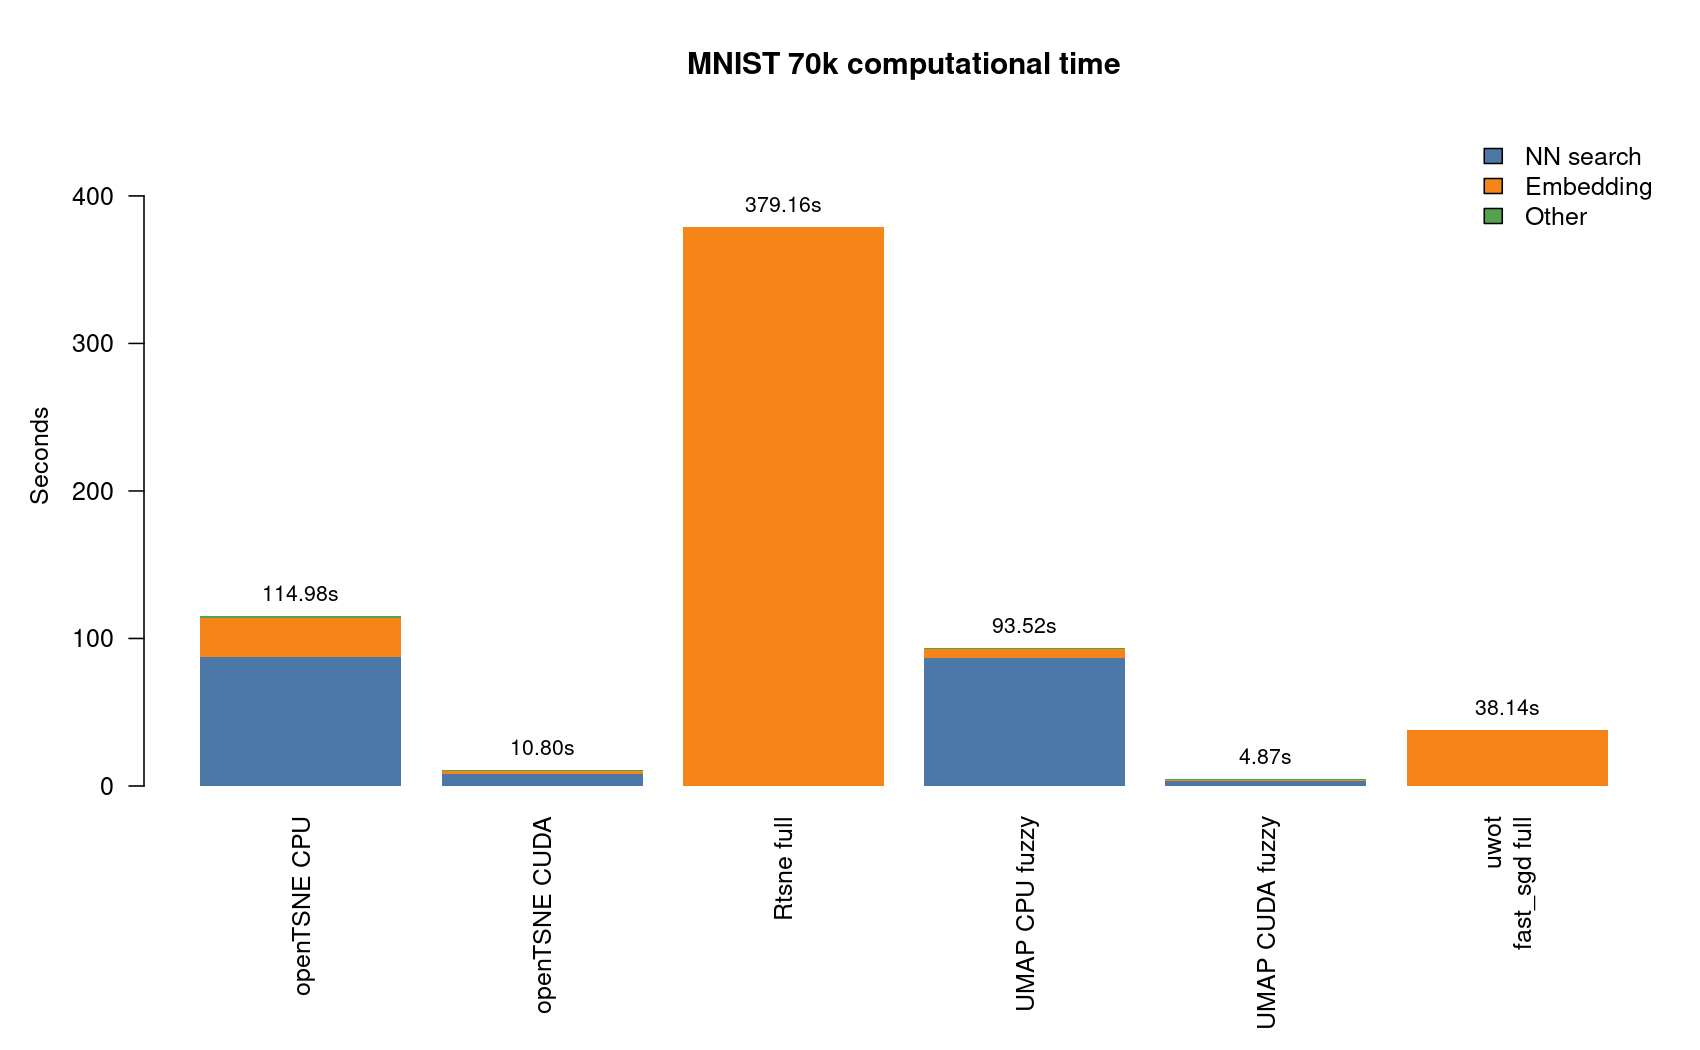
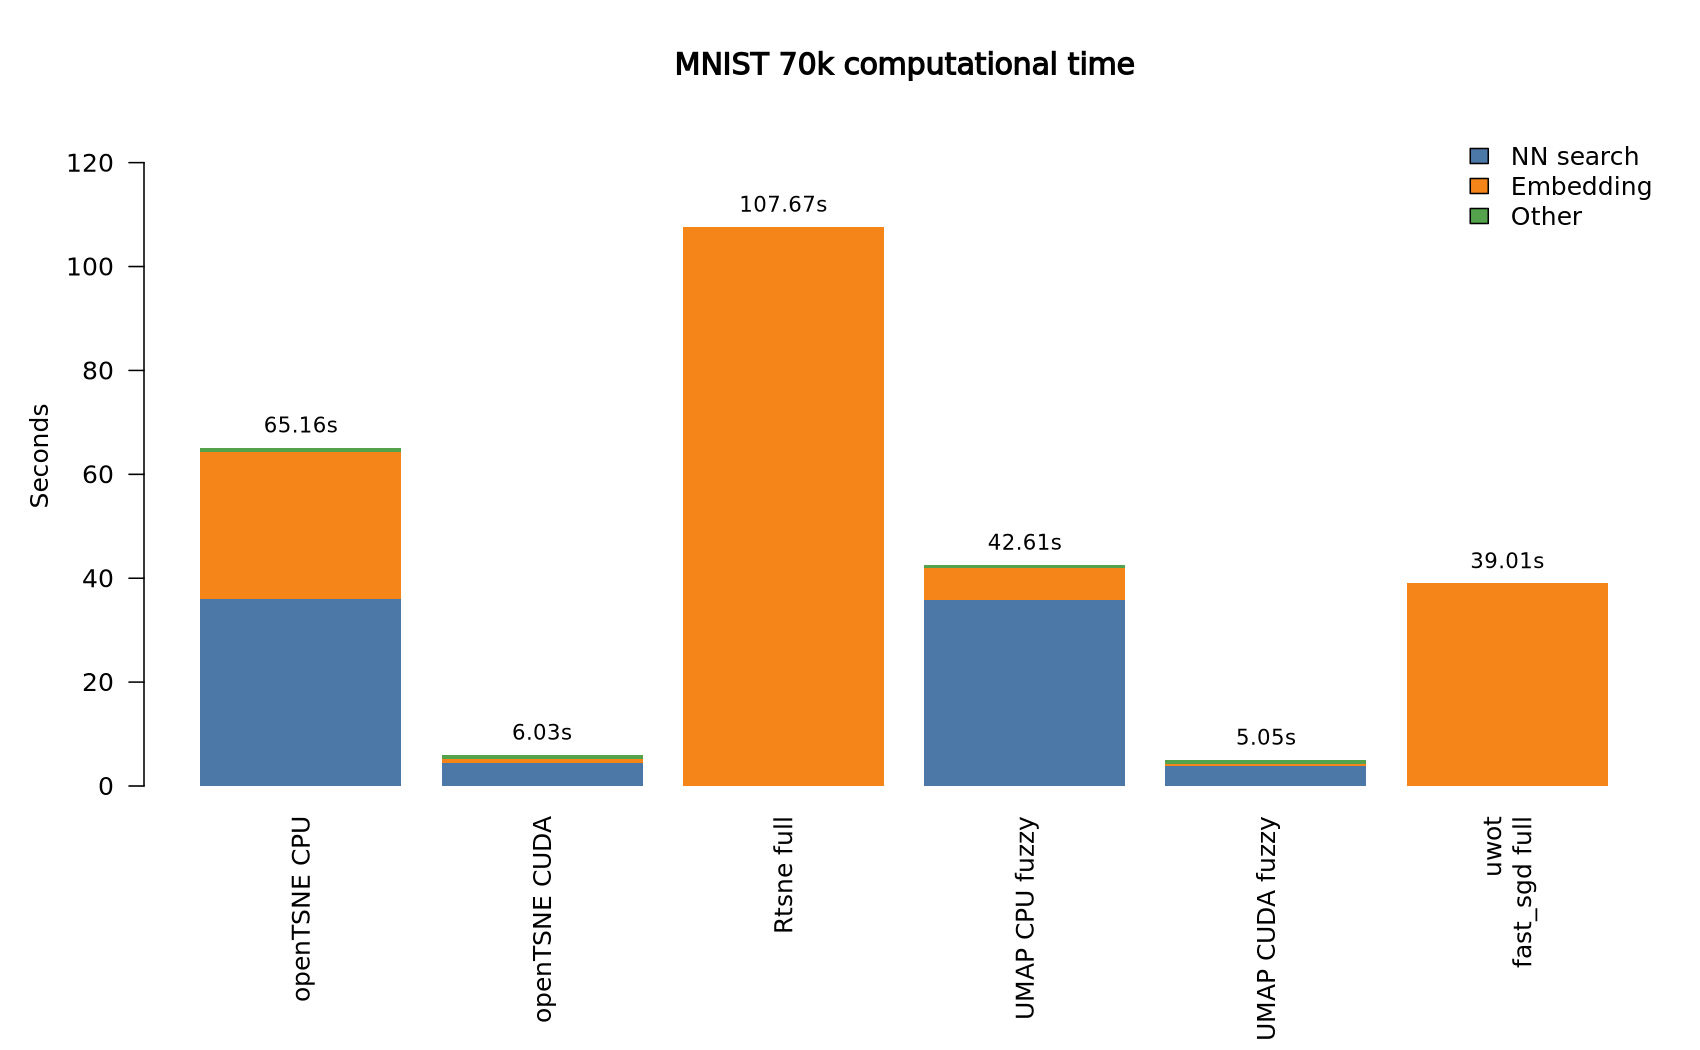
Update MNIST70k benchmark docs

diff --git a/docs/examples.md b/docs/examples.md
@@ -77,12 +77,18 @@ The benchmark script uses the full 70,000 MNIST observations as flattened
 `.RData` object with `data` and `labels` fields.
 
 The CUDA run below was executed on `chiamaka` on 2026-06-18 using the prepared
-dataset at `/mnt/sata_ssd/fastEmbedR/Data/MNIST/MNIST.RData`:
+dataset at `/mnt/sata_ssd/fastEmbedR/Data/MNIST/MNIST.RData`. CPU paths were
+requested with 4 threads for KNN search and embedding:
 
 ```sh
-export LD_PRELOAD=/home/chiamaka/.fastEmbedR/micromamba/envs/fastembedr-faissgpu-cuvs/lib/libstdc++.so.6
+export OMP_NUM_THREADS=4
+export OPENBLAS_NUM_THREADS=4
+export MKL_NUM_THREADS=4
+export RCPP_PARALLEL_NUM_THREADS=4
 
-Rscript tools/benchmark_github_mnist70k.R \
+singularity exec --nv -B /mnt/sata_ssd:/mnt/sata_ssd \
+  /mnt/sata_ssd/fastEmbedR/singularity/fastembedr_cuda.sif \
+  /opt/conda/bin/Rscript /mnt/sata_ssd/fastEmbedR/tools/benchmark_github_mnist70k.R \
   --mnist-rdata=/mnt/sata_ssd/fastEmbedR/Data/MNIST/MNIST.RData \
   --n=70000 \
   --k=15 \
@@ -91,7 +97,7 @@ Rscript tools/benchmark_github_mnist70k.R \
   --run-metal=false \
   --run-cuda=true \
   --run-references=true \
-  --out-dir=/mnt/sata_ssd/fastEmbedR/results/github_mnist70k_cuda_codex_20260618
+  --out-dir=/mnt/sata_ssd/fastEmbedR/results/github_mnist70k_cuda_thread4_20260618_170053
 ```
 
 The script compares:
@@ -109,7 +115,7 @@ This run used:
 - CPU: 13th Gen Intel(R) Core(TM) i7-13700
 - GPU: NVIDIA GeForce RTX 5060 Ti, driver 595.71.05, 16311 MiB
 - RAM: 31.02 GB
-- R: 4.6.0
+- R: 4.5.3
 - fastEmbedR: 0.1.0
 - faissR: 0.1.0
 - uwot: 0.2.4
@@ -122,14 +128,18 @@ The benchmark intentionally does not show `graph_mode = "binary"`.
 
 ![MNIST 70k computational time](assets/mnist70k_cuda_codex_20260618/mnist70k_github_benchmark_time_barplot.png)
 
-| method | backend | NN sec | embedding sec | total sec | trust | label KNN acc |
-| --- | --- | ---: | ---: | ---: | ---: | ---: |
-| fastEmbedR openTSNE CPU | CPU | 87.326 | 26.823 | 114.981 | 0.332 | 0.968 |
-| fastEmbedR openTSNE CUDA | CUDA | 8.453 | 1.660 | 10.796 | 0.334 | 0.969 |
-| Rtsne full | CPU | internal | 379.155 | 379.155 | 0.324 | 0.973 |
-| fastEmbedR UMAP CPU fuzzy | CPU | 86.931 | 5.918 | 93.525 | 0.280 | 0.972 |
-| fastEmbedR UMAP CUDA fuzzy | CUDA | 3.652 | 0.559 | 4.865 | 0.273 | 0.972 |
-| uwot UMAP fast_sgd full | CPU | internal | 38.144 | 38.144 | 0.277 | 0.970 |
+| method | backend | KNN backend | NN sec | embedding sec | total sec | trust | label KNN acc |
+| --- | --- | --- | ---: | ---: | ---: | ---: | ---: |
+| fastEmbedR openTSNE CPU | CPU | faiss_ivf | 35.979 | 28.331 | 65.155 | 0.332 | 0.968 |
+| fastEmbedR openTSNE CUDA | CUDA | faiss_gpu_ivf_flat | 4.350 | 0.903 | 6.033 | 0.333 | 0.969 |
+| Rtsne full | CPU | internal | internal | 107.674 | 107.674 | 0.324 | 0.973 |
+| fastEmbedR UMAP CPU fuzzy | CPU | faiss_ivf | 35.844 | 6.043 | 42.610 | 0.279 | 0.971 |
+| fastEmbedR UMAP CUDA fuzzy | CUDA | faiss_gpu_ivf_flat | 3.760 | 0.532 | 5.049 | 0.274 | 0.971 |
+| uwot UMAP fast_sgd full | CPU | internal | internal | 39.008 | 39.008 | 0.277 | 0.970 |
+
+For fastEmbedR matrix-input runs, CPU KNN used `faiss_ivf` and CUDA KNN used
+`faiss_gpu_ivf_flat`. The reference methods use their own internal neighbour
+search, so the table reports their full runtime as embedding/runtime.
 
 ![MNIST 70k embeddings](assets/mnist70k_cuda_codex_20260618/mnist70k_github_benchmark.png)
 

diff --git a/docs/assets/mnist70k_cuda_codex_20260618/machine-specs.md b/docs/assets/mnist70k_cuda_codex_20260618/machine-specs.md
@@ -1,14 +1,14 @@
 # Machine Specification
 
-- Run timestamp: 2026-06-18 11:59:52 UTC
+- Run timestamp: 2026-06-18 15:00:54 UTC
 - Machine: icgeb-bioinformatics-unit
 - System: Linux 6.8.0-124-generic
-- Platform: x86_64-pc-linux-gnu
+- Platform: x86_64-conda-linux-gnu
 - CPU: 13th Gen Intel(R) Core(TM) i7-13700
 - GPU: NVIDIA GeForce RTX 5060 Ti, 595.71.05, 16311 MiB
 - Logical cores: 24
 - RAM: 31.02 GB
-- R: 4.6.0
+- R: 4.5.3
 - fastEmbedR: 0.1.0
 - faissR: 0.1.0
 - uwot: 0.2.4

diff --git a/docs/benchmarks.md b/docs/benchmarks.md
@@ -21,7 +21,7 @@ CSV are shown on the [Examples](examples.md) page.
 The benchmark command is:
 
 ```sh
-Rscript tools/benchmark_github_mnist70k.R --n=70000 --k=15 --perplexity=15
+Rscript tools/benchmark_github_mnist70k.R --n=70000 --k=15 --perplexity=15 --threads=4
 ```
 
 The script can compare: